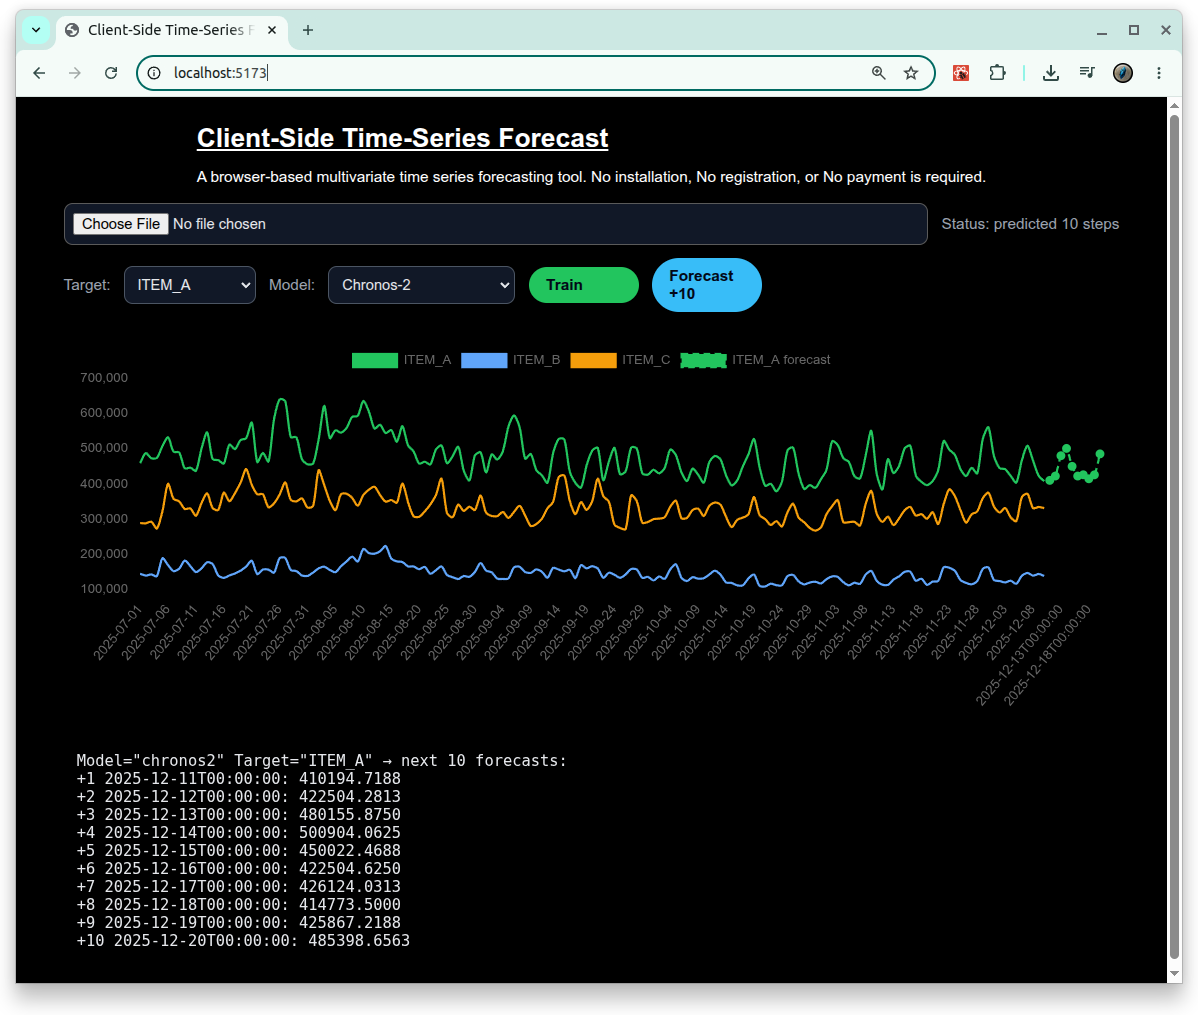
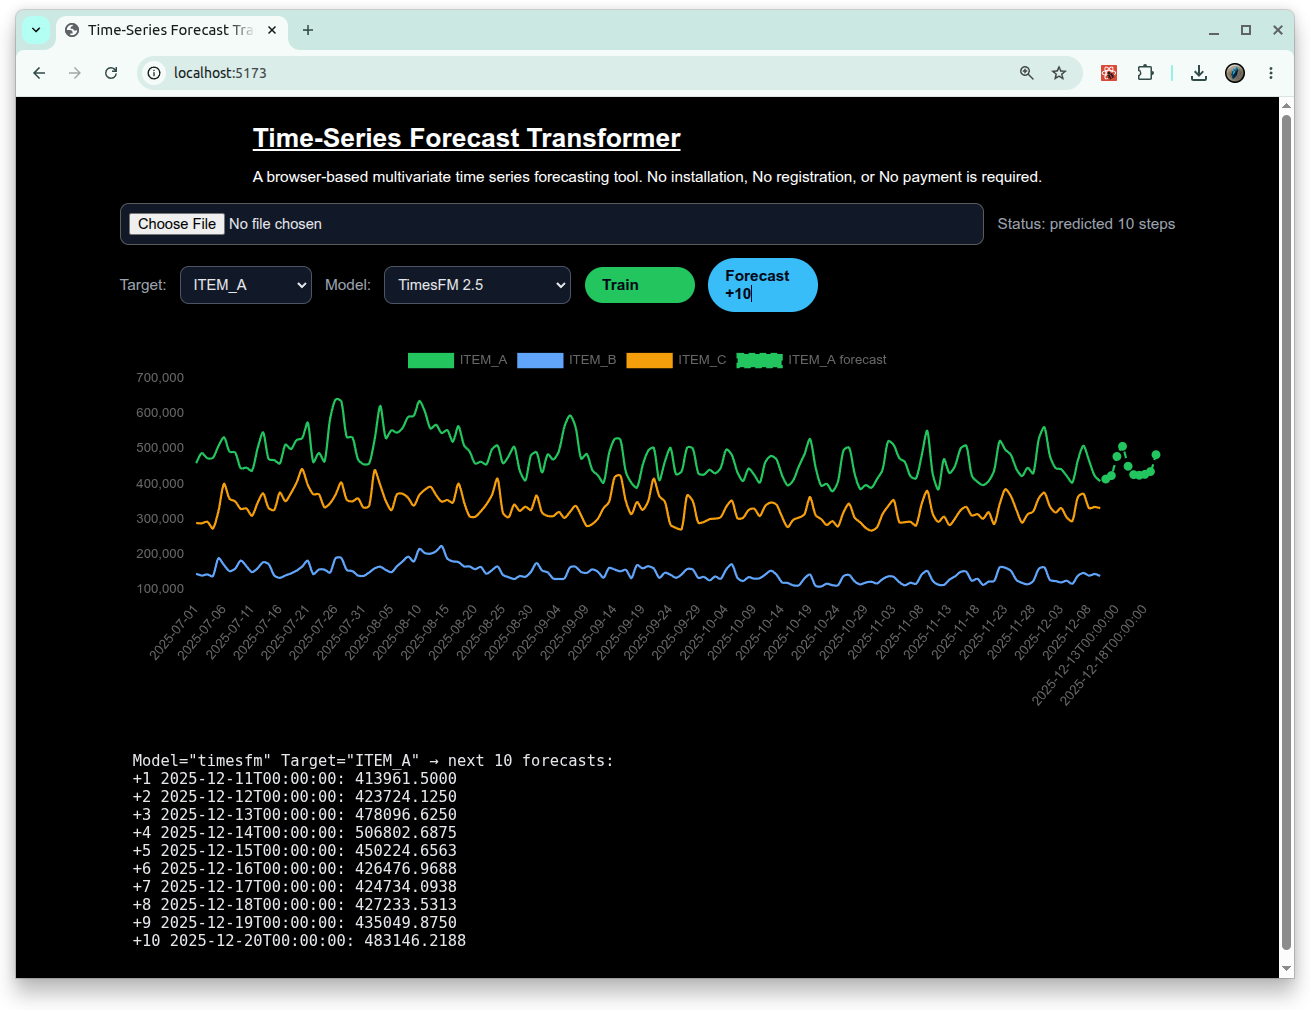
fix/tests

diff --git a/frontend/app/index.html b/frontend/app/index.html
@@ -1,7 +1,7 @@
 <!doctype html>
 <head>
   <meta charset="utf-8" />
-  <title>Client-Side Time-Series Forecast</title>
+  <title>Time-Series Forecast Transformer</title>
   <meta name="viewport" content="width=device-width, initial-scale=1" />
 </head>
 <body style="margin:0;background:#000000;">

diff --git a/frontend/app/src/App.tsx b/frontend/app/src/App.tsx
@@ -207,7 +207,7 @@ export default function App() {
             textDecorationLine: "underline",
           }}
         >
-          Client-Side Time-Series Forecast
+          Time-Series Forecast Transformer
         </Text>
         <Text style={{ color: "#ffffffff", marginBottom: 16 }}>
           A browser-based multivariate time series forecasting tool. No installation, No registration, or No payment is required.

diff --git a/backend/src/local_ts_forecast/cli.py b/backend/src/local_ts_forecast/cli.py
@@ -2,7 +2,6 @@ from __future__ import annotations
 
 import argparse
 import os
-from pathlib import Path
 
 from .benchmark_datasets import load_training_series, write_records_as_long_csv
 from .forecaster import ForecastConfig, build_forecaster